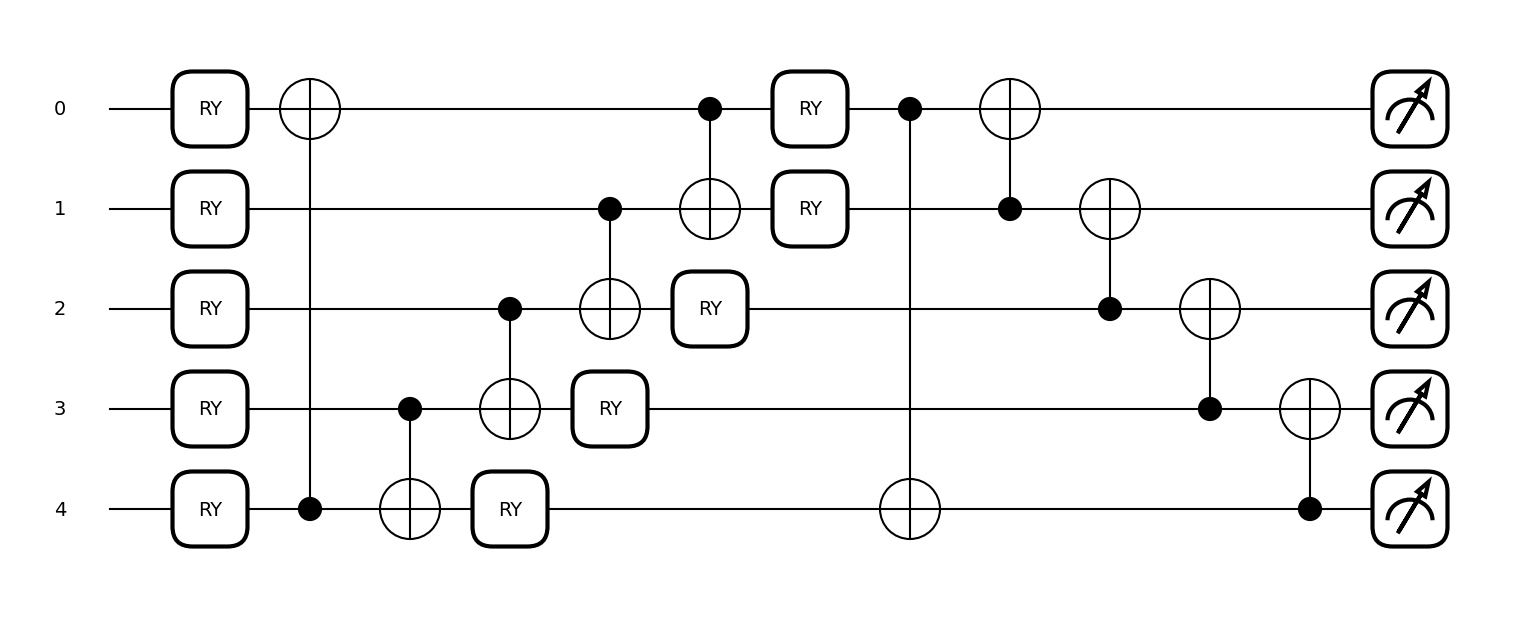
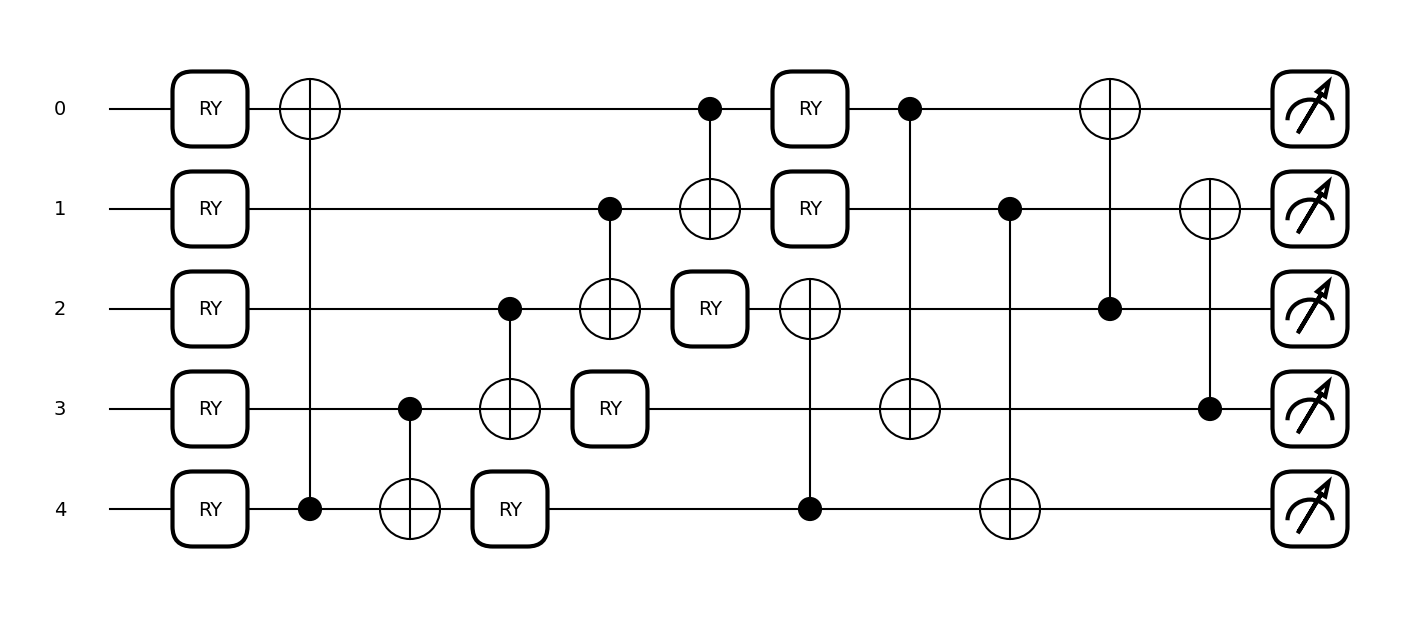
15 and 20 swap

diff --git a/tests/test_coefficients.py b/tests/test_coefficients.py
@@ -566,7 +566,7 @@ def test_fourier_fingerprint() -> None:
     """
     test_cases = [
         {
-            "circuit_type": "Circuit_15",
+            "circuit_type": "Circuit_20",
         },
         {
             "circuit_type": "Circuit_19",
